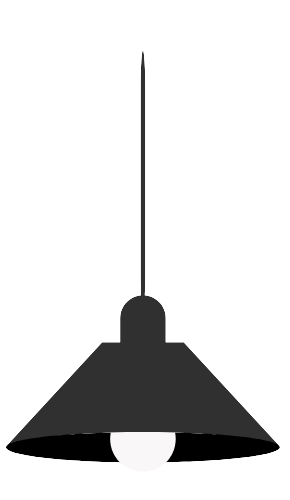
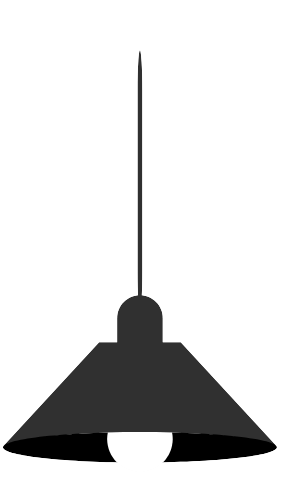
adjust layout of auth comps

diff --git a/src/styles/Login-SignupPages.module.css b/src/styles/Login-SignupPages.module.css
@@ -1,15 +1,14 @@
 .container {
     width: 100%;
-    height: 250px;
+    height: 269px;
     background-color: #E86100;
     overflow: hidden;
 }
 
 
 .image {
-    width: 20%;
     height: auto;
-    margin-left: 20px;
+    margin-left: 25px;
 }
 
 .header {
@@ -31,15 +30,16 @@
 }
 
 .triangle {
-    position: relative;
-    top: -15px;
-    right: 223px;
+    position: absolute;
+    top: 140px;
+    right: 0;
     width: 0;
     height: 0;
-    border-left: 280px solid transparent;
-    border-right: 880px solid transparent;
-    border-bottom: 200px solid #fff;
+    border-left: 180px solid transparent;
+    border-right: 320px solid transparent;
+    border-bottom: 130px solid #fff;
     z-index: 0;
+
 }
 
 .formContainer {

diff --git a/src/pages/signup/index.tsx b/src/pages/signup/index.tsx
@@ -15,8 +15,9 @@ export default function SignupPage() {
 				<Image
 					src={lampImg}
 					alt="lamp image"
-					width={290}
-					height={300}
+					width={90}
+					height={90}
+					loading="lazy"
 					className={styles.image}
 				/>
 				<div className={styles.triangle}></div>

diff --git a/src/pages/login/index.tsx b/src/pages/login/index.tsx
@@ -15,8 +15,8 @@ export default function LoginPage() {
 				<Image
 					src={lampImg}
 					alt="lamp image"
-					width={290}
-					height={300}
+					width={90}
+					height={90}
 					className={styles.image}
 					loading="lazy"
 				/>
